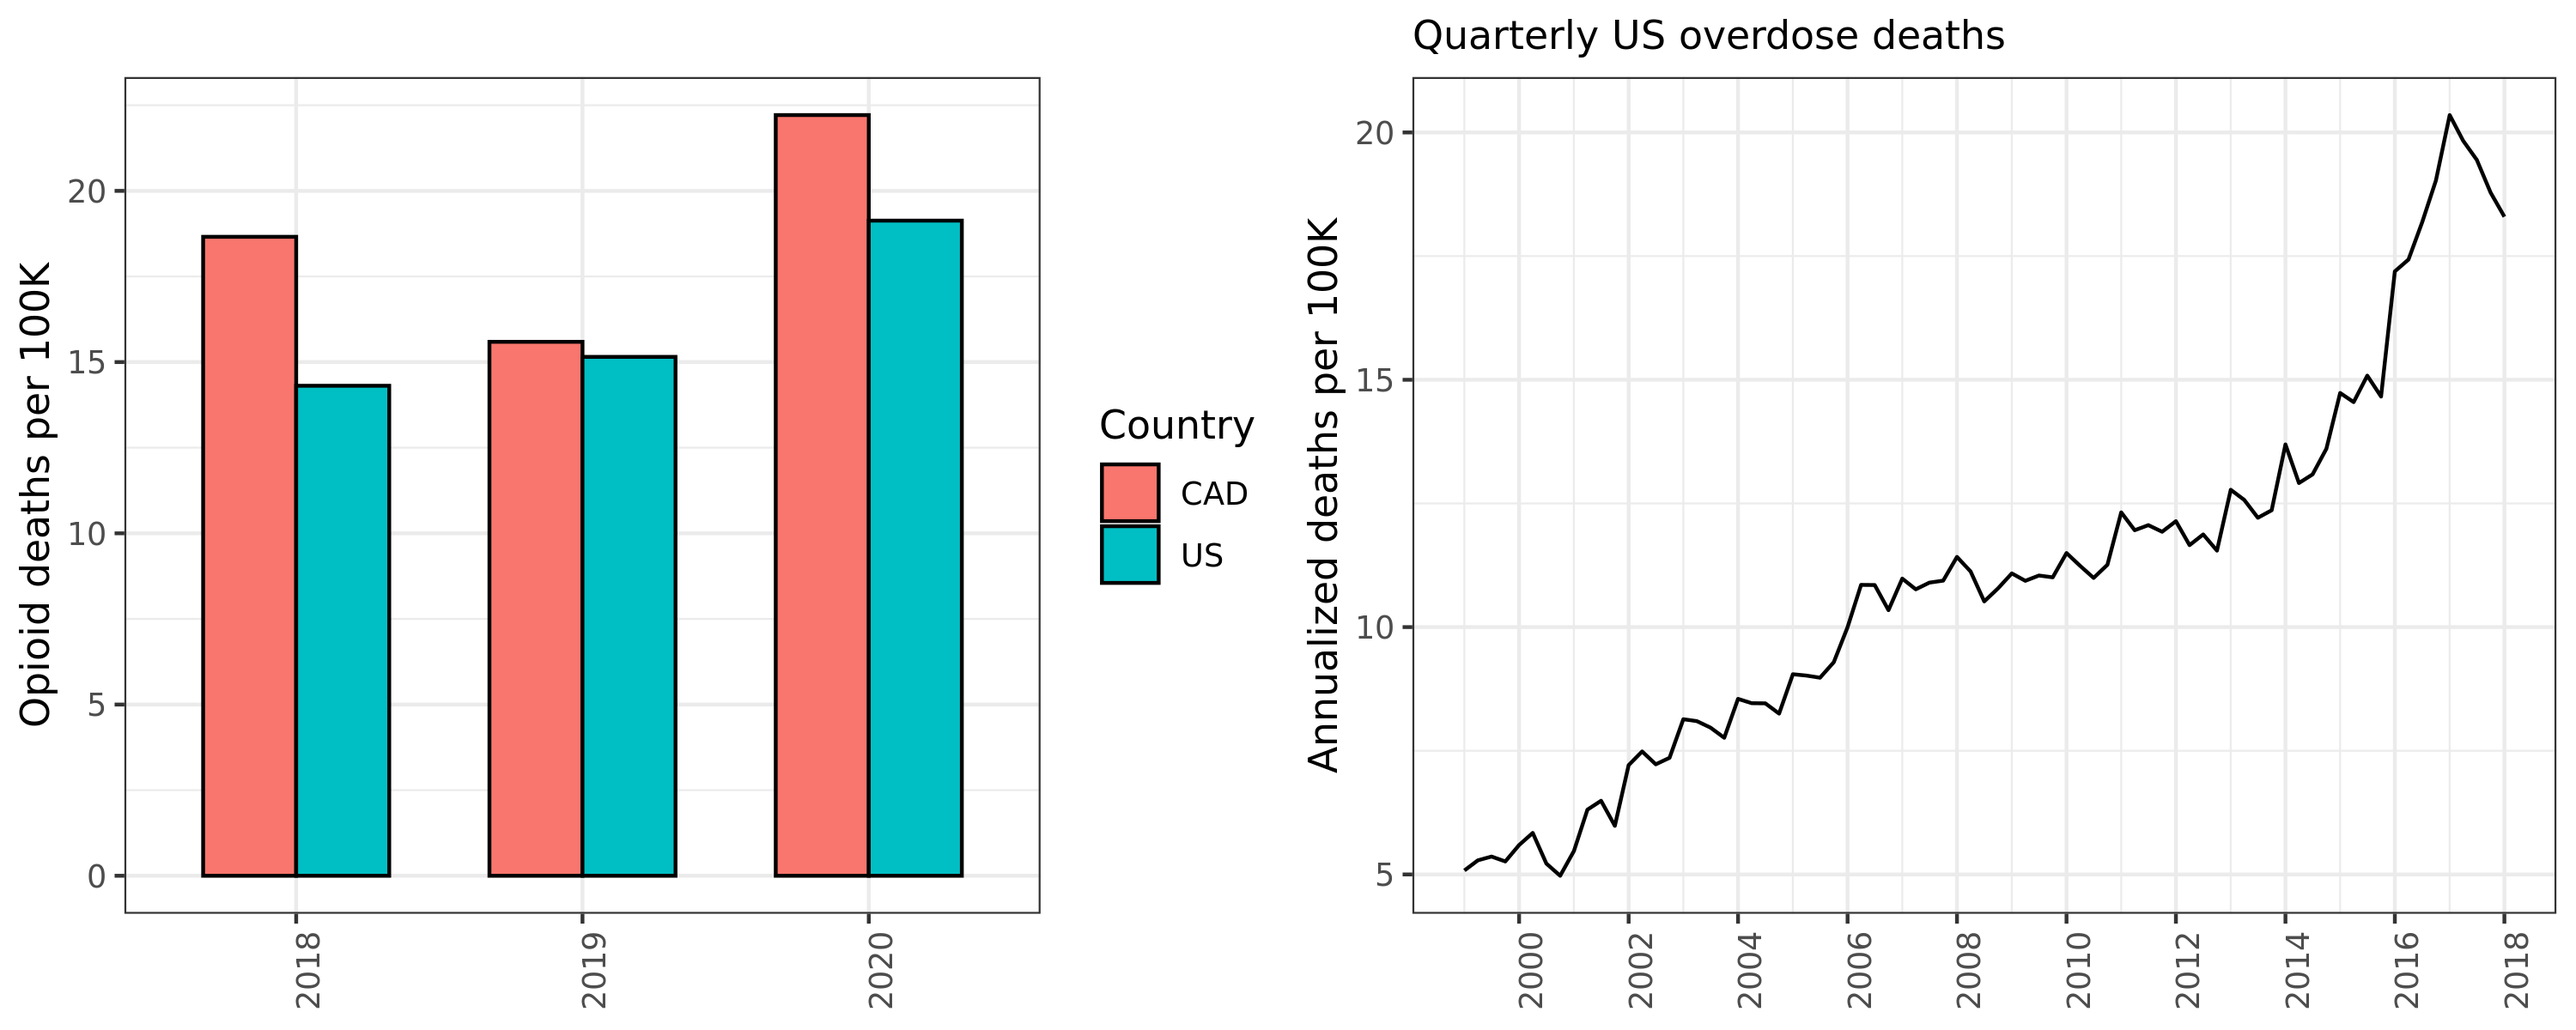
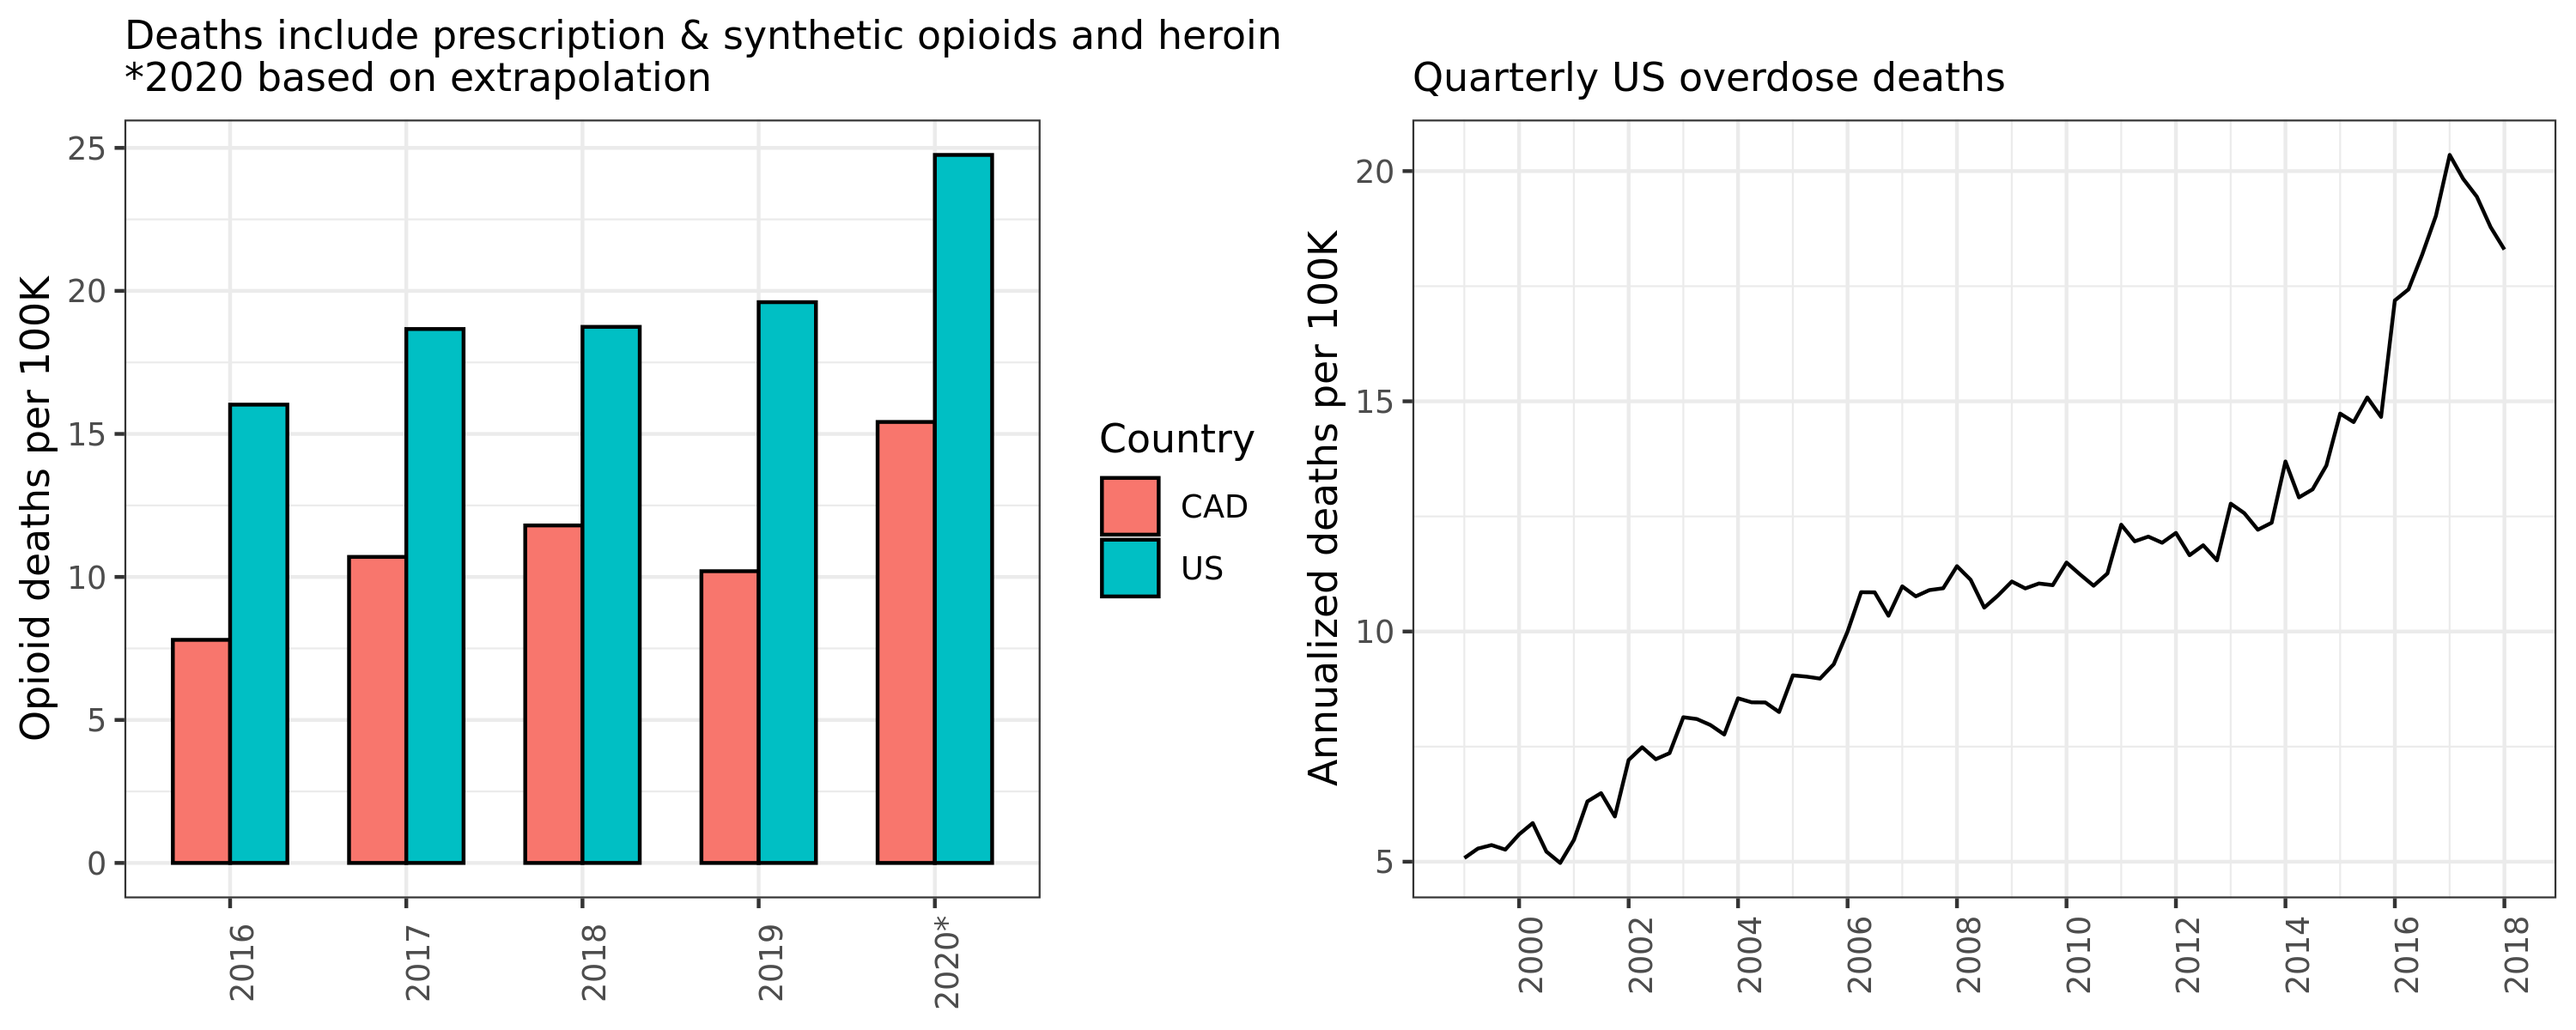
update

diff --git a/_posts/2021-04-11-us_opioid.md b/_posts/2021-04-11-us_opioid.md
@@ -21,7 +21,7 @@ I also found the matching methods unreliable since the covariates used to genera
 
 ## (1) Background
 
-The United States and Canada are experiencing an [opioid crisis](https://en.wikipedia.org/wiki/Opioid_epidemic). The origins of this public health emergency are complex, but "innovations" in prescription opioids (OxyContin and Vicodin), the emergence of new street drugs like black tar heroin and fentanyl, as well as drug criminalization have been posited as primary causes. The annual numbers of opioid overdose deaths in North America are now staggering (see Figure 1).[[^2]] To put these numbers into perspective, the number of fatal motor vehicle crashes and firearms suicides combined (mortality rates of 11 and 8 per 100K persons, respectively) are roughly equivalent to opioid overdose deaths in the US.[[^3]] Although Canada has fewer deaths by firearms and motor vehicles, our country is experiencing overdose fatalities with no less severity than our southern neighbour.
+The United States and Canada are experiencing an [opioid crisis](https://en.wikipedia.org/wiki/Opioid_epidemic). The origins of this public health emergency are complex, but "innovations" in prescription opioids (OxyContin and Vicodin), the emergence of new street drugs like black tar heroin and fentanyl, as well as drug criminalization have been posited as primary causes. The annual numbers of opioid overdose deaths in North America are now staggering (see Figure 1).[[^2]] To put these numbers into perspective, the number of fatal motor vehicle crashes and firearms suicides combined (mortality rates of 11 and 8 per 100K persons, respectively) are roughly equivalent to opioid overdose deaths in the US.[[^3]] Although Canada has around half the number of per capita overdose fatalities compared to our southern neighbour, the death rate is still double that of motor vehicle accidents in our country.
 
 <center><h3>Figure 1: US and CAD opioid and overdose deaths </h3></center>
 <p align="center"><img src="/figures/gg_deaths_comp.png" width="90%"></p>
@@ -139,10 +139,9 @@ The statistical estimates from Lee are compelling because of the size and qualit
 
 ### Notes
 
-[^1]: *Systematic Evaluation of State Policy Interventions Targeting
-the US Opioid Epidemic, 2007-2018*. The results of this study was picked up by the media and made a bit of a splash. See [here](https://www.eurekalert.org/pub_releases/2021-02/iu-isf021721.php), [here](https://www.cato.org/blog/more-evidence-prescription-drug-monitoring-programs-might-increase-overdose-deaths), [here](https://www.news-medical.net/news/20210217/Opioid-supply-controlling-policies-may-have-unintended-consequences-finds-study.aspx), and [here](https://www.sciencedaily.com/releases/2021/02/210217134802.htm). 
+[^1]: *Systematic Evaluation of State Policy Interventions Targeting the US Opioid Epidemic, 2007-2018*. The results of this study was picked up by the media and made a bit of a splash. See [here](https://www.eurekalert.org/pub_releases/2021-02/iu-isf021721.php), [here](https://www.cato.org/blog/more-evidence-prescription-drug-monitoring-programs-might-increase-overdose-deaths), [here](https://www.news-medical.net/news/20210217/Opioid-supply-controlling-policies-may-have-unintended-consequences-finds-study.aspx), and [here](https://www.sciencedaily.com/releases/2021/02/210217134802.htm). 
 
-[^2]: This death rate is likely a conservative estimate because it is difficult to separate overdose deaths from opioid-specific deaths. US data comes from [here](https://www.drugabuse.gov/sites/default/files/Overdose_data_1999-2019.xlsx), with the 2020 value based on [preliminary estimates](https://www.cdc.gov/nchs/nvss/vsrr/drug-overdose-data.htm) of a 27% year-on-year increase of overdose deaths more generally. [Canadian data](https://health-infobase.canada.ca/substance-related-harms/opioids-stimulants/graphs?index=395) comes from [here](https://health-infobase.canada.ca/src/doc/HealthInfobase-SubstanceHarmsData.zip), with the 2020 value based on annualized estimates from January to September data.  
+[^2]: This death rate is likely a conservative estimate because it is difficult to separate overdose deaths from opioid-specific deaths. US data comes from [here](https://www.drugabuse.gov/sites/default/files/Overdose_data_1999-2019.xlsx), with the 2020 value based on [preliminary estimates](https://www.cdc.gov/nchs/nvss/vsrr/drug-overdose-data.htm) of a 27% year-on-year increase of overdose deaths more generally. [Canadian data](https://health-infobase.canada.ca/substance-related-harms/opioids-stimulants/graphs?index=395) comes from [here](https://health-infobase.canada.ca/src/doc/HealthInfobase-SubstanceHarmsData.zip), with the 2020 value based on annualized estimates from January to September data (Canada is on track for a 43% increase in opioid deaths in 2020 compared to 2019).  
 
 [^3]: Motor vehicle deaths [source](https://www.iihs.org/topics/fatality-statistics/detail/state-by-state), and firearms death [source](https://health.ucdavis.edu/what-you-can-do/facts.html).
 
